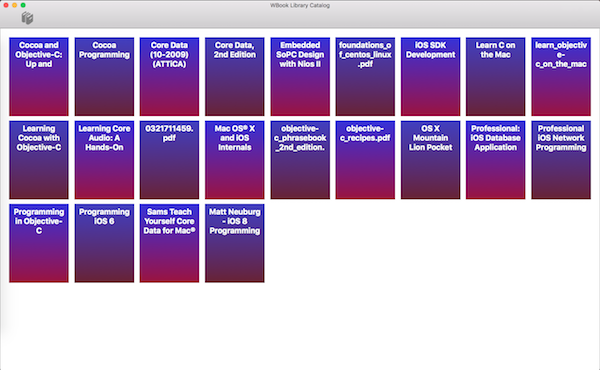
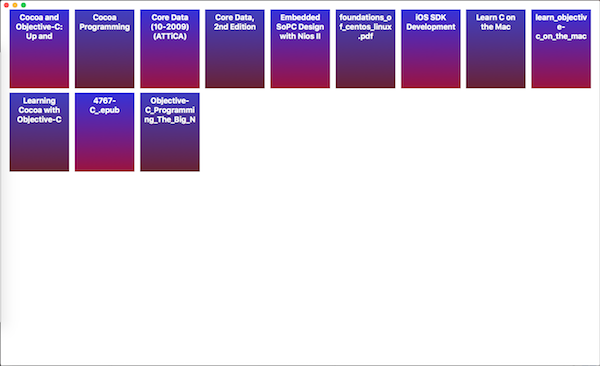
New tool bar

diff --git a/WBookLibrary/PDFViewer.m b/WBookLibrary/PDFViewer.m
@@ -9,23 +9,28 @@
 #import "PDFViewer.h"
 #import "AppDelegate.h"
 #import "DataConfigLoader.h"
+#import "ToolBarHandlers.h"
 
-@interface PDFViewer ()
+@interface PDFViewer ()<NSToolbarDelegate>
 
 @end
 
 @implementation PDFViewer
 {
     AppDelegate *appDelegate;
+    PDFDocument *pdfDoc;
+    ToolBarHandlers *toolHandlers;
+    NSArray<NSToolbarItem*> *toolBarItems;
 }
 - (void)viewDidLoad {
     [super viewDidLoad];
     appDelegate = [[NSApplication sharedApplication] delegate];
+    appDelegate.window.titlebarAppearsTransparent = NO;
     CGSize wsize = [[DataConfigLoader singleInstance] getFrameWindowSize];
     [self.view setFrameSize:wsize];
-    
+    toolHandlers = [[ToolBarHandlers alloc] init];
     NSURL *url = [NSURL fileURLWithPath:_bookURL];
-    PDFDocument *pdfDoc = [[PDFDocument alloc] initWithURL:url];
+    pdfDoc = [[PDFDocument alloc] initWithURL:url];
     NSString *title = [[pdfDoc documentAttributes] objectForKey:@"Title"];
     if (title == nil) {
         title = @"unknown title";
@@ -35,6 +40,81 @@
     [_pdfView setDocument:pdfDoc];
     [_pdfView setAutoScales:YES];
     
+    NSToolbar *toolBar = [[NSToolbar alloc] initWithIdentifier:@"PDFViewToolBar"];
+    [toolBar setDelegate:self];
+    [appDelegate.window setToolbar:toolBar];
+    
+    [[NSNotificationCenter defaultCenter] addObserver:self selector:@selector(resizeWindow) name:NSWindowDidResizeNotification object:appDelegate.window];
+}
+
+-(void)resizeWindow {
+    [[DataConfigLoader singleInstance] setWindowSize:self.view.frame.size];
+}
+
+- (NSToolbarItem *)toolbar:(NSToolbar *)toolbar itemForItemIdentifier:
+(NSString *)itemIdentifier willBeInsertedIntoToolbar:(BOOL)flag
+{
+
+    NSToolbarItem *newItem = nil;
+    NSButton *btn = nil;
+    
+    if([itemIdentifier isEqualToString:@"Library"]){
+        newItem = [[NSToolbarItem alloc] initWithItemIdentifier:itemIdentifier];
+        btn = [NSButton buttonWithImage:[NSImage imageNamed:@"booklib"] target:self action:@selector(returnToLibrary)];
+        [newItem setLabel:@"Library"];
+        [newItem setPaletteLabel:@"Library"];
+
+    } else if([itemIdentifier isEqualToString:@"TwoPage"]){
+        newItem = [[NSToolbarItem alloc] initWithItemIdentifier:itemIdentifier];
+        btn = [NSButton buttonWithImage:[NSImage imageNamed:@"twoPage"] target:self action:@selector(setTwoPage)];
+        [newItem setLabel:@"Two Page"];
+        [newItem setPaletteLabel:@"Two Page"];
+        
+    } else if([itemIdentifier isEqualToString:@"OnePage"]){
+        newItem = [[NSToolbarItem alloc] initWithItemIdentifier:itemIdentifier];
+        btn = [NSButton buttonWithImage:[NSImage imageNamed:@"onePage"] target:self action:@selector(setOnePage)];
+        [newItem setLabel:@"One Page"];
+        [newItem setPaletteLabel:@"One Page"];
+        
+    }
+    
+    [newItem setView:btn];
+    [btn setBezelStyle:NSRegularSquareBezelStyle];
+    [btn setFrame:NSMakeRect(0, 0, 32, 32)];
+    
+    NSSize minSize = NSMakeSize(32, 32);
+    [newItem setMaxSize:minSize];
+    return newItem;
+}
+
+- (NSArray *)toolbarDefaultItemIdentifiers:(NSToolbar*)toolbar
+{
+    return [NSArray arrayWithObjects:@"Library",
+            NSToolbarFlexibleSpaceItemIdentifier,
+            @"OnePage", @"TwoPage", nil];
+}
+
+- (NSArray *)toolbarAllowedItemIdentifiers:(NSToolbar*)toolbar
+{
+    return [NSArray arrayWithObjects:@"Library",
+            NSToolbarFlexibleSpaceItemIdentifier,
+            @"OnePage", @"TwoPage", nil];
+}
+
+-(void)returnToLibrary {
+    [toolHandlers loadCatalogue];
+}
+
+-(void)nextPage:(id)sender {
+    [_pdfView goToNextPage:sender];
+}
+
+-(void)setTwoPage {
+    [_pdfView setDisplayMode:kPDFDisplayTwoUpContinuous];
+}
+
+-(void)setOnePage {
+    [_pdfView setDisplayMode:kPDFDisplaySinglePageContinuous];
 }
 
 @end

diff --git a/WBookLibrary/EPubViewController.m b/WBookLibrary/EPubViewController.m
@@ -11,14 +11,16 @@
 #import "AppDelegate.h"
 #import "DataConfigLoader.h"
 #import <Quartz/Quartz.h>
+#import "ToolBarHandlers.h"
 
-@interface EPubViewController ()<EPubParserDeleage, WebUIDelegate, WebResourceLoadDelegate, WebFrameLoadDelegate>
+@interface EPubViewController ()<EPubParserDeleage, WebUIDelegate, WebResourceLoadDelegate, WebFrameLoadDelegate, NSToolbarDelegate>
 
 @end
 
 @implementation EPubViewController
 {
     AppDelegate *appDelegate;
+    ToolBarHandlers *toolHandlers;
     EPubParser *epubBookParser;
     NSArray *spines;
     NSDictionary *manifest;
@@ -30,9 +32,10 @@
 - (void)viewDidLoad {
     [super viewDidLoad];
     appDelegate = [[NSApplication sharedApplication] delegate];
+    appDelegate.window.titlebarAppearsTransparent = NO;
     CGSize wsize = [[DataConfigLoader singleInstance] getFrameWindowSize];
     [self.view setFrameSize:wsize];
-    
+    toolHandlers = [[ToolBarHandlers alloc] init];
     [[[_epubContentView mainFrame] frameView] setAllowsScrolling:NO];
     _epubContentView.frameLoadDelegate = self;
     
@@ -46,10 +49,13 @@
     
     [[NSNotificationCenter defaultCenter] addObserver:self selector:@selector(resizeWindow) name:NSWindowDidResizeNotification object:appDelegate.window];
 
+    NSToolbar *toolBar = [[NSToolbar alloc] initWithIdentifier:@"EPubFViewToolBar"];
+    [toolBar setDelegate:self];
+    [appDelegate.window setToolbar:toolBar];
 }
 
 -(void)resizeWindow {
-
+    [[DataConfigLoader singleInstance] setWindowSize:self.view.frame.size];
 }
 
 -(void)parseFinish:(NSDictionary*)epubDataInfo {
@@ -133,6 +139,46 @@
         [[[[_epubContentView mainFrame] frameView] documentView] scrollPoint:NSMakePoint(0, scrollPosition)];
     }
 
+}
+
+- (NSToolbarItem *)toolbar:(NSToolbar *)toolbar itemForItemIdentifier:
+(NSString *)itemIdentifier willBeInsertedIntoToolbar:(BOOL)flag
+{
+    
+    NSToolbarItem *newItem = nil;
+    NSButton *btn = nil;
+    
+    if([itemIdentifier isEqualToString:@"Library"]){
+        newItem = [[NSToolbarItem alloc] initWithItemIdentifier:itemIdentifier];
+        btn = [NSButton buttonWithImage:[NSImage imageNamed:@"booklib"] target:self action:@selector(returnToLibrary)];
+        [newItem setLabel:@"Library"];
+        [newItem setPaletteLabel:@"Library"];
+        
+    }
+    
+    [newItem setView:btn];
+    [btn setBezelStyle:NSRegularSquareBezelStyle];
+    [btn setFrame:NSMakeRect(0, 0, 32, 32)];
+    
+    NSSize minSize = NSMakeSize(32, 32);
+    [newItem setMaxSize:minSize];
+    return newItem;
+}
+
+- (NSArray *)toolbarDefaultItemIdentifiers:(NSToolbar*)toolbar
+{
+    return [NSArray arrayWithObjects:@"Library",
+            NSToolbarFlexibleSpaceItemIdentifier, nil];
+}
+
+- (NSArray *)toolbarAllowedItemIdentifiers:(NSToolbar*)toolbar
+{
+    return [NSArray arrayWithObjects:@"Library",
+            NSToolbarFlexibleSpaceItemIdentifier, nil];
+}
+
+-(void)returnToLibrary {
+    [toolHandlers loadCatalogue];
 }
 
 @end

diff --git a/WBookLibrary/ToolBarHandlers.m b/WBookLibrary/ToolBarHandlers.m
@@ -1,0 +1,32 @@
+//
+//  ToolBarHandlers.m
+//  WBookLibrary
+//
+//  Created by Denis Andreev on 08/03/2017.
+//  Copyright © 2017 Denis Andreev. All rights reserved.
+//
+
+#import "ToolBarHandlers.h"
+#import "AppDelegate.h"
+
+@implementation ToolBarHandlers
+{
+    AppDelegate *appDelegate;
+    NSStoryboard *storyboard;
+}
+
+- (instancetype)init
+{
+    self = [super init];
+    if (self) {
+        appDelegate = [[NSApplication sharedApplication] delegate];
+        storyboard = [NSStoryboard storyboardWithName:@"Main" bundle:nil];
+    }
+    return self;
+}
+
+-(void)loadCatalogue {
+    appDelegate.window.contentViewController = [storyboard instantiateControllerWithIdentifier:@"MainViewController"];
+}
+
+@end

diff --git a/WBookLibrary/MainViewController.m b/WBookLibrary/MainViewController.m
@@ -30,7 +30,9 @@
 - (void)viewDidLoad {
     [super viewDidLoad];
     appDeleagte = [[NSApplication sharedApplication] delegate];
-    [appDeleagte.window setTitle:@"WBook Library Catalog"];
+    appDeleagte.window.titlebarAppearsTransparent = YES;
+    appDeleagte.window.toolbar = nil;
+    
     dataConfig = [DataConfigLoader singleInstance]; // get settings object
     [dataConfig setDelegate:self];
     [(LibraryViewWithDragAndDrop*)self.view setDelegate:self];

diff --git a/WBookLibrary/AppDelegate.m b/WBookLibrary/AppDelegate.m
@@ -18,6 +18,7 @@
 
 - (void)applicationDidFinishLaunching:(NSNotification *)aNotification {
     _window = [[[NSApplication sharedApplication] windows] firstObject];
+    _window.titlebarAppearsTransparent = YES;
     _window.titleVisibility = NSWindowTitleHidden;
     _window.styleMask |= NSFullSizeContentViewWindowMask;
     

diff --git a/WBookLibrary/ToolBarHandlers.h b/WBookLibrary/ToolBarHandlers.h
@@ -1,0 +1,15 @@
+//
+//  ToolBarHandlers.h
+//  WBookLibrary
+//
+//  Created by Denis Andreev on 08/03/2017.
+//  Copyright © 2017 Denis Andreev. All rights reserved.
+//
+
+#import <Foundation/Foundation.h>
+
+@interface ToolBarHandlers : NSObject
+
+-(void)loadCatalogue;
+
+@end

diff --git a/WBookLibrary/DataConfigLoader.m b/WBookLibrary/DataConfigLoader.m
@@ -36,7 +36,6 @@
 
 -(void) createDefults {
     _userDefaults = [[NSUserDefaults alloc] init];
- //   NSString *bookPath = [_userDefaults stringForKey:BOOK_LIBRARY_PATH];
 }
 
 -(NSString*)getBookPath {
